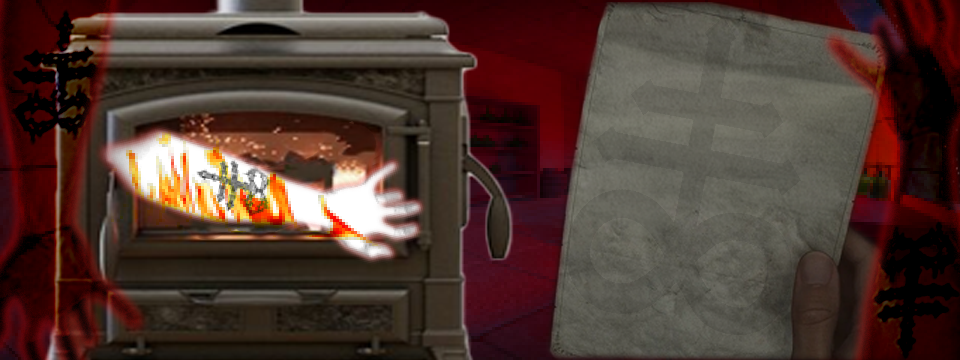
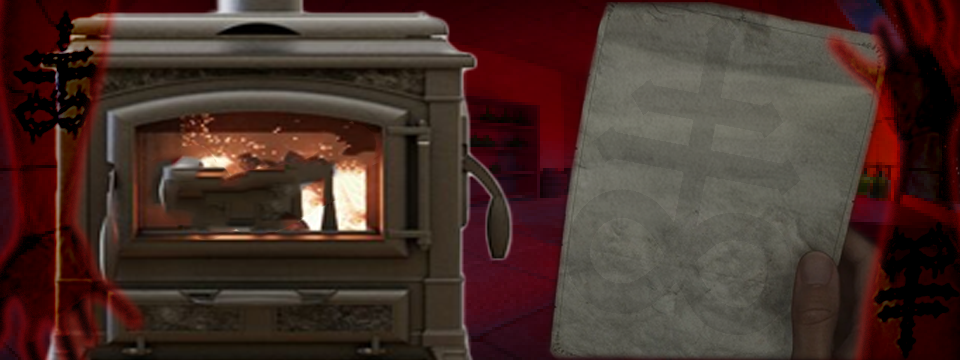
need laptop

Changed region(s): [[0.0938, 0.3361, 0.4375, 0.7333]]

diff --git a/src/scenes/michaelRooms/MichaelRoom.js b/src/scenes/michaelRooms/MichaelRoom.js
@@ -22,14 +22,13 @@ class MichaelRoom extends Phaser.Scene {
             this.michaelShield = new FindableObject(this, 718, 96, 'michaelShield', 'shieldCloseUpScene', 0)
         }
          if (!this.scene.manager.getScene('uiScene').itemsFound[1]) {
-            this.michaelFurnace = new FindableObject(this, -16, -44, 'michaelFurnace','furnaceCloseUpScene',1)
+            this.michaelFurnace = new DoorWay(this, -16, -44, 'michaelFurnace','furnaceCloseUpScene')
         }
         else{
              this.michaelFurnace = new ClickableObject(this, -16, -44, 'michaelFurnace','the furnace doesnt burn as \n hot anymore.')
         }
-         if (!this.scene.manager.getScene('uiScene').itemsFound[2]) {
+         
            this.michaelComputer = new DoorWay(this, 776, 147, 'michaelComputer', 'computerCloseUpScene')
-        }
 
         if(this.scene.manager.getScene('uiScene').itemsFound[0] && this.scene.manager.getScene('uiScene').itemsFound[1] && this.scene.manager.getScene('uiScene').itemsFound[2])
         {

diff --git a/src/scenes/utility/load.js b/src/scenes/utility/load.js
@@ -31,6 +31,7 @@ class Load extends Phaser.Scene
         this.load.image('michaelCreationFile','./assets/images/MichaelRoom/CreationFile.png')
         this.load.image('michaelImgFile','./assets/images/MichaelRoom/computerFile.png')
         this.load.image('michaelArm','./assets/images/MichaelRoom/michaelArmWhite.png')
+        this.load.image('michaelFurnaceArm','./assets/images/MichaelRoom/furnaceArm.png')
         //Play Room
         this.load.image('playBG','./assets/images/PlayRoom/PlayBG.png')
         this.load.image('tower','./assets/images/PlayRoom/Tower.png')

diff --git a/src/scenes/michaelRooms/computerCloseUp.js b/src/scenes/michaelRooms/computerCloseUp.js
@@ -9,7 +9,10 @@ class ComputerCloseUp extends Phaser.Scene
          this.sceneBG = this.add.image(width/2,playHeight/2,'michaelComputerBG')
          this.backButton = new BackButton(this,playWidth - 200,  40,'michaelRoomScene')
          this.imgFile = new ClickableObject(this,100,100,'michaelImgFile','A bunch of cool photos')
+
+         if (!this.scene.manager.getScene('uiScene').itemsFound[2]) {
          this.creationFile = new FindableObject(this,100,200,'michaelCreationFile','michaelRoomScene',2)
+         }
             
     
 

diff --git a/src/scenes/michaelRooms/FurnaceCloseUp.js b/src/scenes/michaelRooms/FurnaceCloseUp.js
@@ -7,7 +7,7 @@ class FurnaceCloseUp extends Phaser.Scene
     create()
     {
          this.sceneBG = this.add.image(width/2,playHeight/2,'michaelFurnaceCloseUp')
-         this.backButton = new BackButton(this,playWidth - 100,  50,'michaelRoomScene')
+         this.arm = new FindableObject(this,96,122,'michaelFurnaceArm','michaelRoomScene',1)
          this.fireSound = this.sound.add('fireSound', {
          loop: true,
          volume: 0.5
